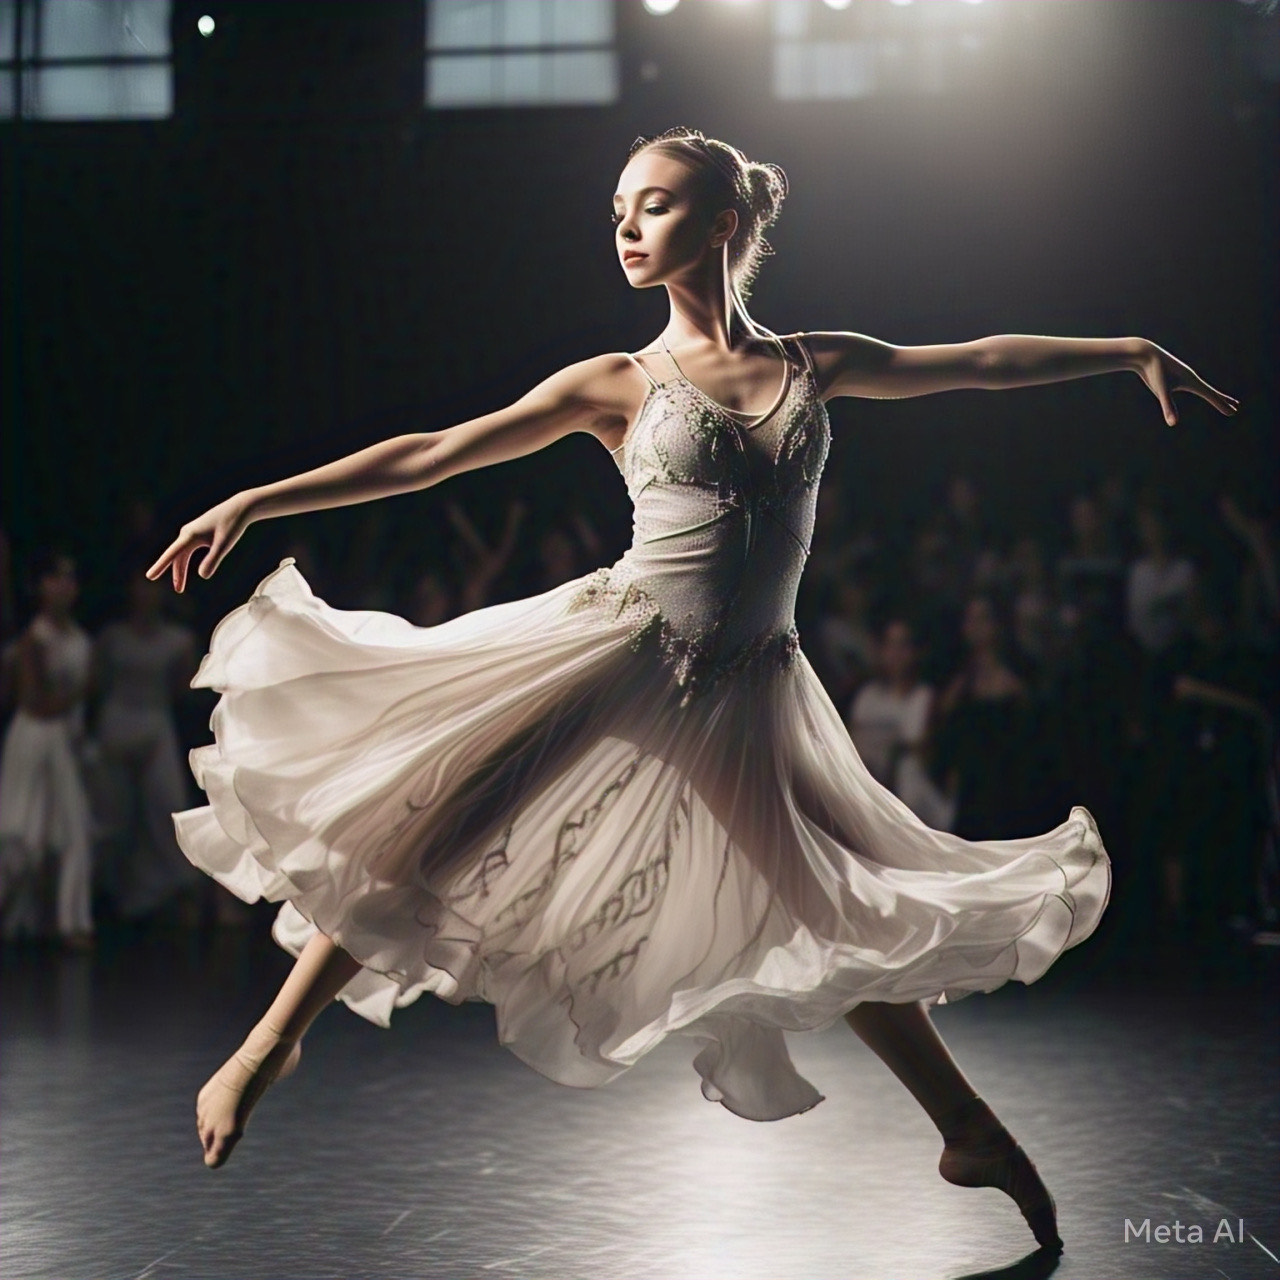
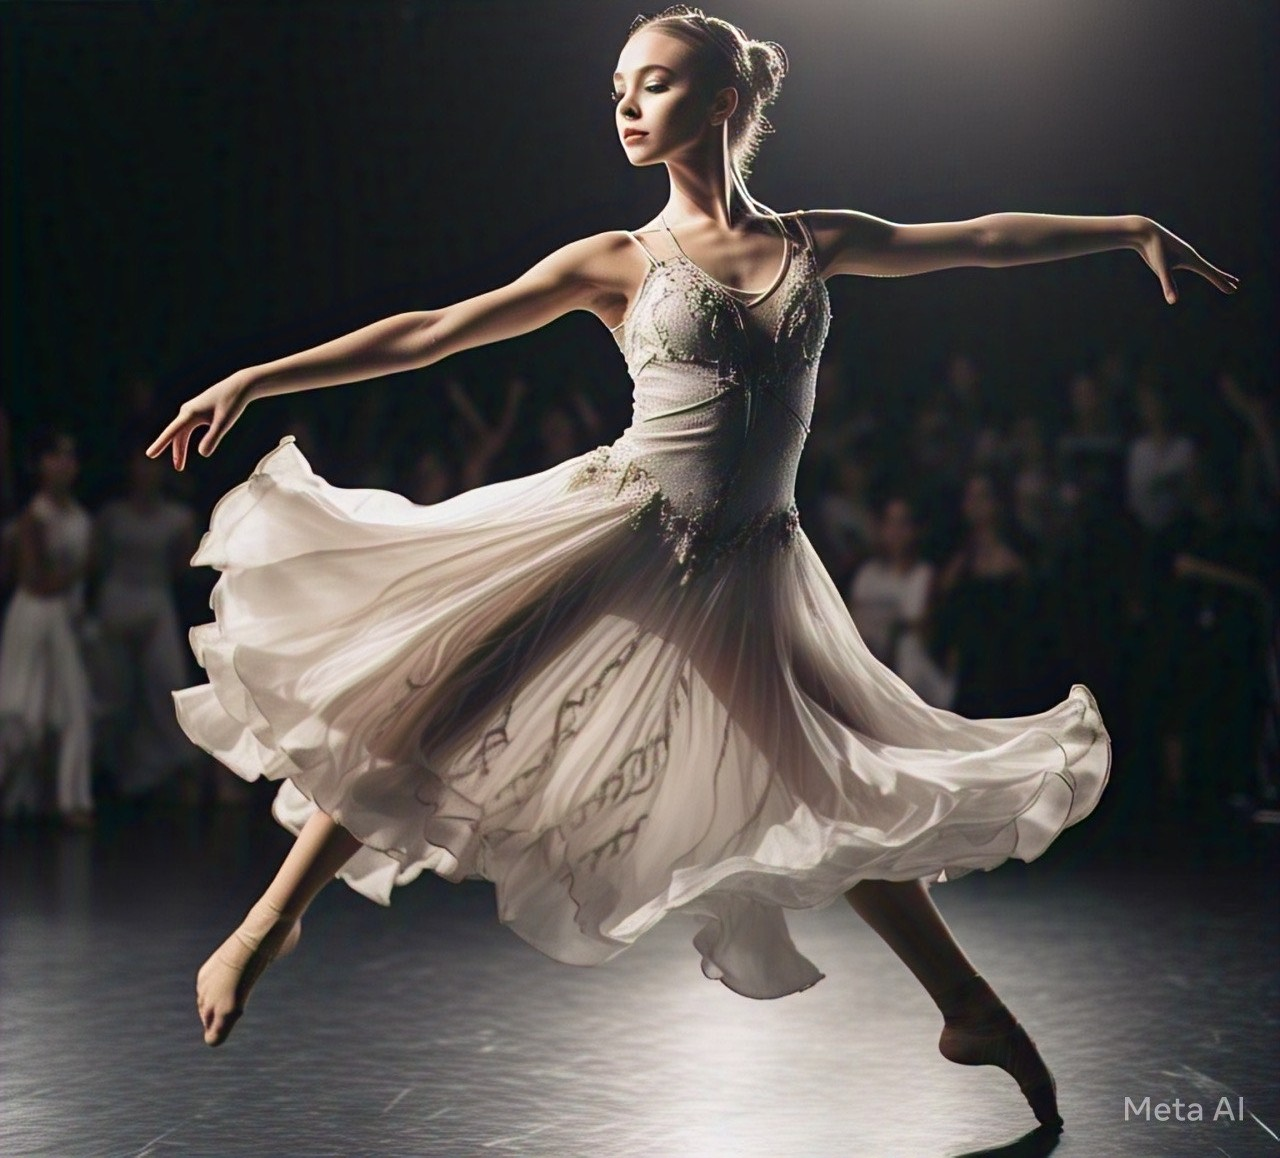
Add image positioning support for course card main images

diff --git a/src/app/academia/page.tsx b/src/app/academia/page.tsx
@@ -61,12 +61,13 @@ const courses = [
   },
   {
     title: "Girly",
-    description: "Curso enfocado a potenciar tu femineidad, actitud e interpretación, a través de distintos ritmos musicales.",
-    age: "+14 años",
+    description: "Curso enfocado a potenciar tu femineidad, actitud e interpretación, a través de distintos ritmos musicales.",
+    age: "+14 años",
     imageUrl: "/images/courses/girly/main.jpg",
     galleryImages: [
     ],
     videoUrl: "/images/courses/girly/video.mp4",
+    imagePosition: 'center',
   },
   {
     title: "Ballroom",
@@ -109,6 +110,7 @@ const courses = [
     galleryImages: [
     ],
     videoUrl: "/images/courses/tiktok/video.mp4",
+    imagePosition: 'bottom',
   },
   {
     title: "Dance Kids",
@@ -138,6 +140,7 @@ const courses = [
       "/images/courses/chair/gallery-6.jpg",
     ],
     videoUrl: "/images/courses/chair/video.mp4",
+    imagePosition: 'top',
   },
   {
     title: "Broadway Show",
@@ -148,6 +151,7 @@ const courses = [
       "/images/courses/broadway/gallery-1.jpg",
     ],
     videoUrl: "/images/courses/broadway/video.mp4",
+    imagePosition: '50% 35%',
   },
   {
     title: "Ballet",
@@ -173,7 +177,8 @@ const courses = [
     age: "+12 años",
     imageUrl: "/images/courses/lyrical/main.jpg",
     galleryImages: [
-    ]
+    ],
+    imagePosition: 'top',
   }
 ];
 
@@ -192,6 +197,7 @@ export default function AcademiaPage() {
               imageUrl={course.imageUrl}
               galleryImages={course.galleryImages}
               videoUrl={course.videoUrl}
+              imagePosition={course.imagePosition}
             />
           ))}
         </div>

diff --git a/src/components/CourseCard/CourseCard.tsx b/src/components/CourseCard/CourseCard.tsx
@@ -18,6 +18,7 @@ interface CourseCardProps {
   imageUrl: string;
   galleryImages?: string[];
   videoUrl?: string | VideoInfo[];
+  imagePosition?: string;
 }
 
 const CourseCard = ({ 
@@ -26,7 +27,8 @@ const CourseCard = ({
   age,
   imageUrl,
   galleryImages = [],
-  videoUrl
+  videoUrl,
+  imagePosition = 'center'
 }: CourseCardProps) => {
   const [isModalOpen, setIsModalOpen] = useState(false);
   const [selectedImage, setSelectedImage] = useState(imageUrl);
@@ -63,6 +65,7 @@ const CourseCard = ({
             src={imageUrl}
             alt={title}
             fill
+            style={{ objectPosition: imagePosition }}
             className="object-cover"
           />
         </div>
